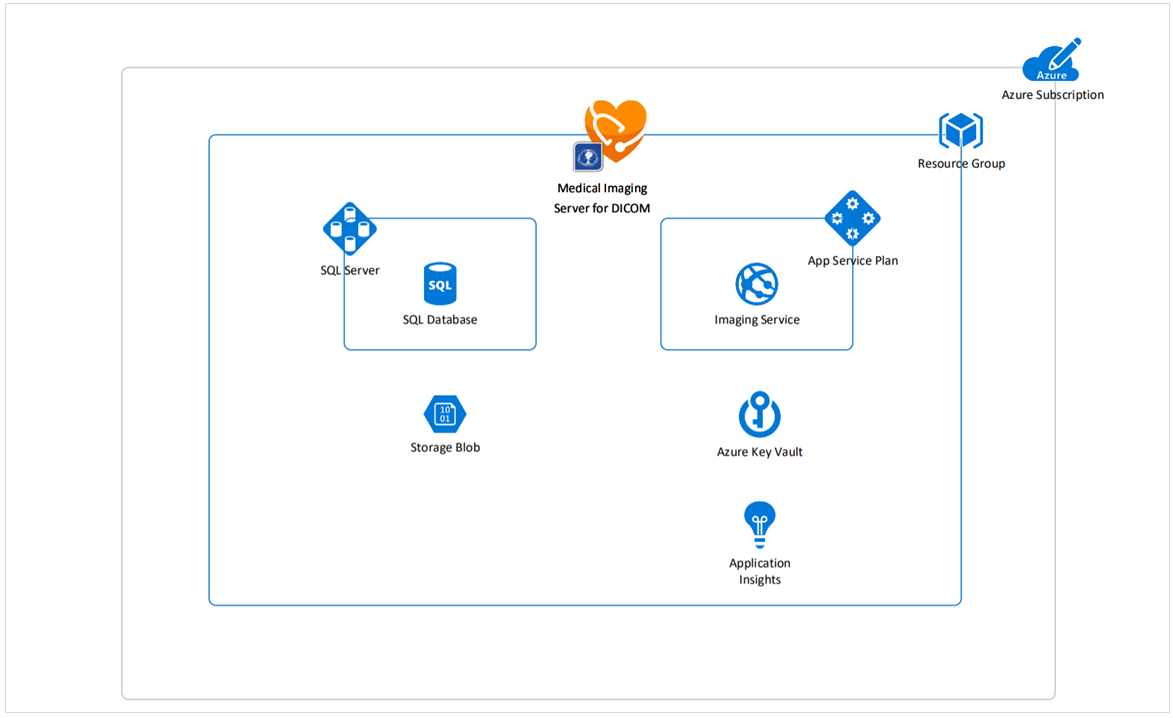
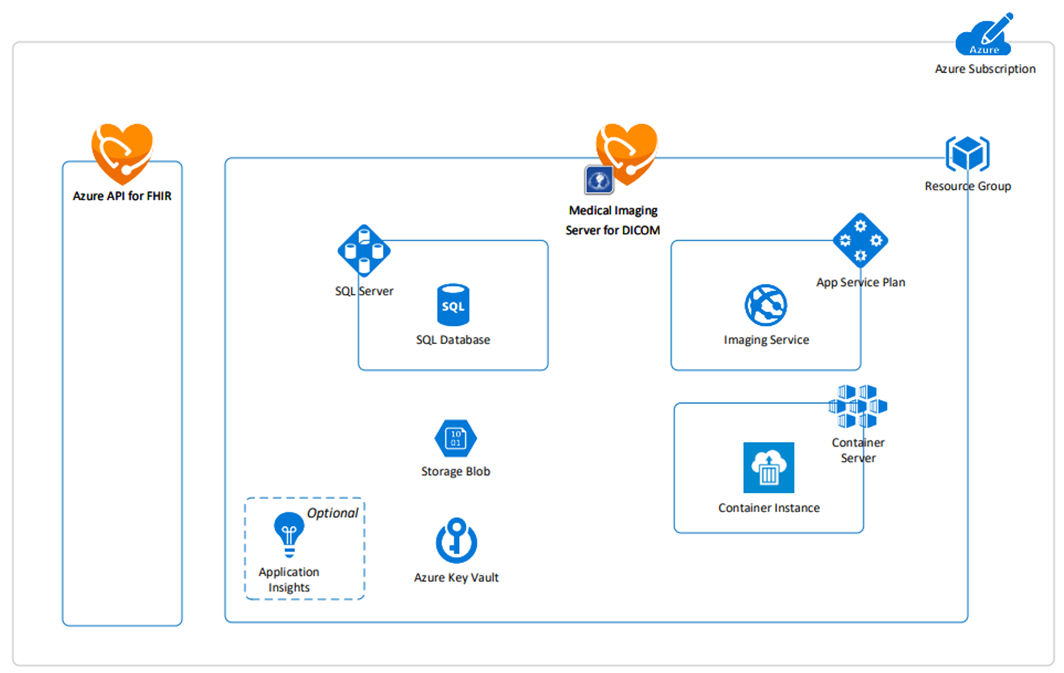
updating diagram in dicom concept and adding summary

diff --git a/docs/concepts/dicom.md b/docs/concepts/dicom.md
@@ -28,8 +28,18 @@ The Medical Imaging Server for DICOM needs an Azure subscription to configure an
 
 ![resource-deployment](../images/dicom-deployment-architecture.png)
 
-- **SQL Server**: Indexes a subset of the Medical Imaging Server for DICOM metadata to support queries and to maintain a queryable log of changes.
+- **SQL Server**: Indexes a subset of the Medical Imaging Server for DICOM metadata to support queries.
 - **Storage Blob**: Persists all Medical Imaging Server for DICOM data and metadata.
 - **App Service Plan**: Hosts the Medical Imaging Service for DICOM
 - **Azure Key Vault**: Stores critical security information.
-- **Application Insights**: Monitors performance of Medical Imaging Server for DICOM.
+- **Application Insights (optional)**: Monitors performance of Medical Imaging Server for DICOM.
+- **Azure Container Instance (optional)**: Hosts the DICOM Cast Service for FHIR integration (optional).
+- **Azure API for FHIR (optional)**: Persists the DICOM metadata alongside other clinical data.
+
+## Summary
+
+This Concept provided an overview of DICOM, Medical Imaging and the Medical Imaging Server for DICOM. To get started using the Medical Imaging Server:
+
+* [Deploy Medical Imaging Server to Azure](../quickstarts/deploy-via-azure.md)
+* [Deploy DICOM Cast](../quickstarts/dicom-cast.md)
+* [Use the Medical Imaging Server for DICOM APIs](../tutorials/use-the-medical-imaging-server-apis.md)
